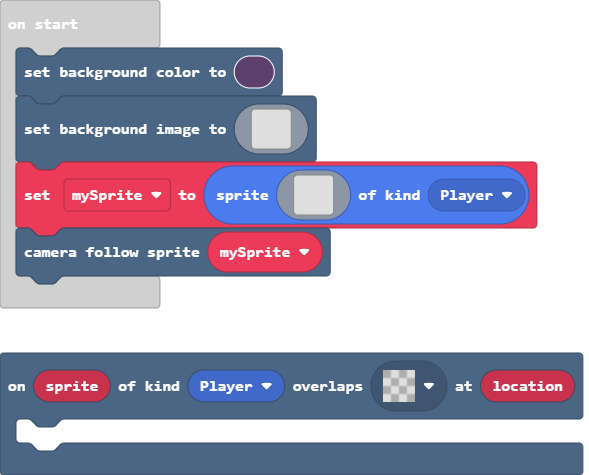
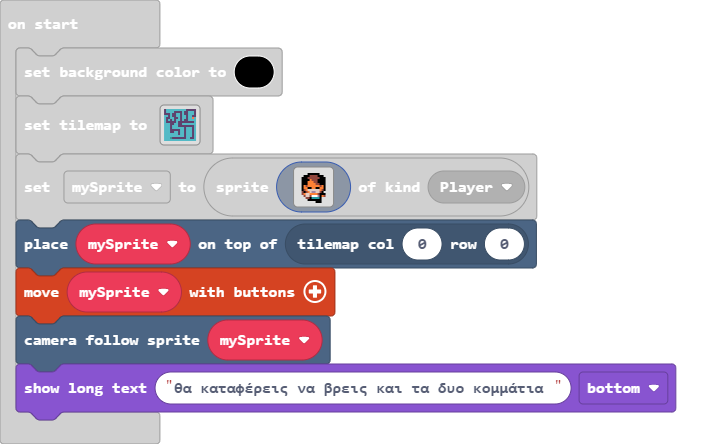
Update main.blocks, main.ts

diff --git a/main.ts b/main.ts
@@ -4,21 +4,24 @@ scene.onOverlapTile(SpriteKind.Player, assets.tile`transparency16`, function (sp
 scene.setBackgroundColor(15)
 tiles.setTilemap(tilemap`level1`)
 let mySprite = sprites.create(img`
-    . . . . . . . . . . . . . . . . 
-    . . . . . . . . . . . . . . . . 
-    . . . . . . . . . . . . . . . . 
-    . . . . . . . . . . . . . . . . 
-    . . . . . . . . . . . . . . . . 
-    . . . . . . . . . . . . . . . . 
-    . . . . . . . . . . . . . . . . 
-    . . . . . . . . . . . . . . . . 
-    . . . . . . . . . . . . . . . . 
-    . . . . . . . . . . . . . . . . 
-    . . . . . . . . . . . . . . . . 
-    . . . . . . . . . . . . . . . . 
-    . . . . . . . . . . . . . . . . 
-    . . . . . . . . . . . . . . . . 
-    . . . . . . . . . . . . . . . . 
-    . . . . . . . . . . . . . . . . 
+    . . . . . . . . . . . . 
+    . . . f f f f f f . . . 
+    . f f f e e e e f f f . 
+    f f f e e e e e e f f f 
+    f f f f 4 e e e f f f f 
+    f f f 4 4 4 e e f f f f 
+    f f f 4 4 4 4 e e f f f 
+    f 4 e 4 4 4 4 4 4 e 4 f 
+    f 4 4 f f 4 4 f f 4 4 f 
+    f e 4 d d d d d d 4 e f 
+    e f e 4 d b b d d e f . 
+    e 4 d d 4 4 4 4 e f f f 
+    . e d d e 1 1 1 b f 4 e 
+    . . e e f 6 6 6 6 f . . 
+    . . . f f f f f f f . . 
+    . . . . . . . f f f . . 
     `, SpriteKind.Player)
+tiles.placeOnTile(mySprite, tiles.getTileLocation(0, 0))
+controller.moveSprite(mySprite)
 scene.cameraFollowSprite(mySprite)
+game.showLongText("θα καταφέρεις να βρεις και τα δυο κομμάτια ", DialogLayout.Bottom)
